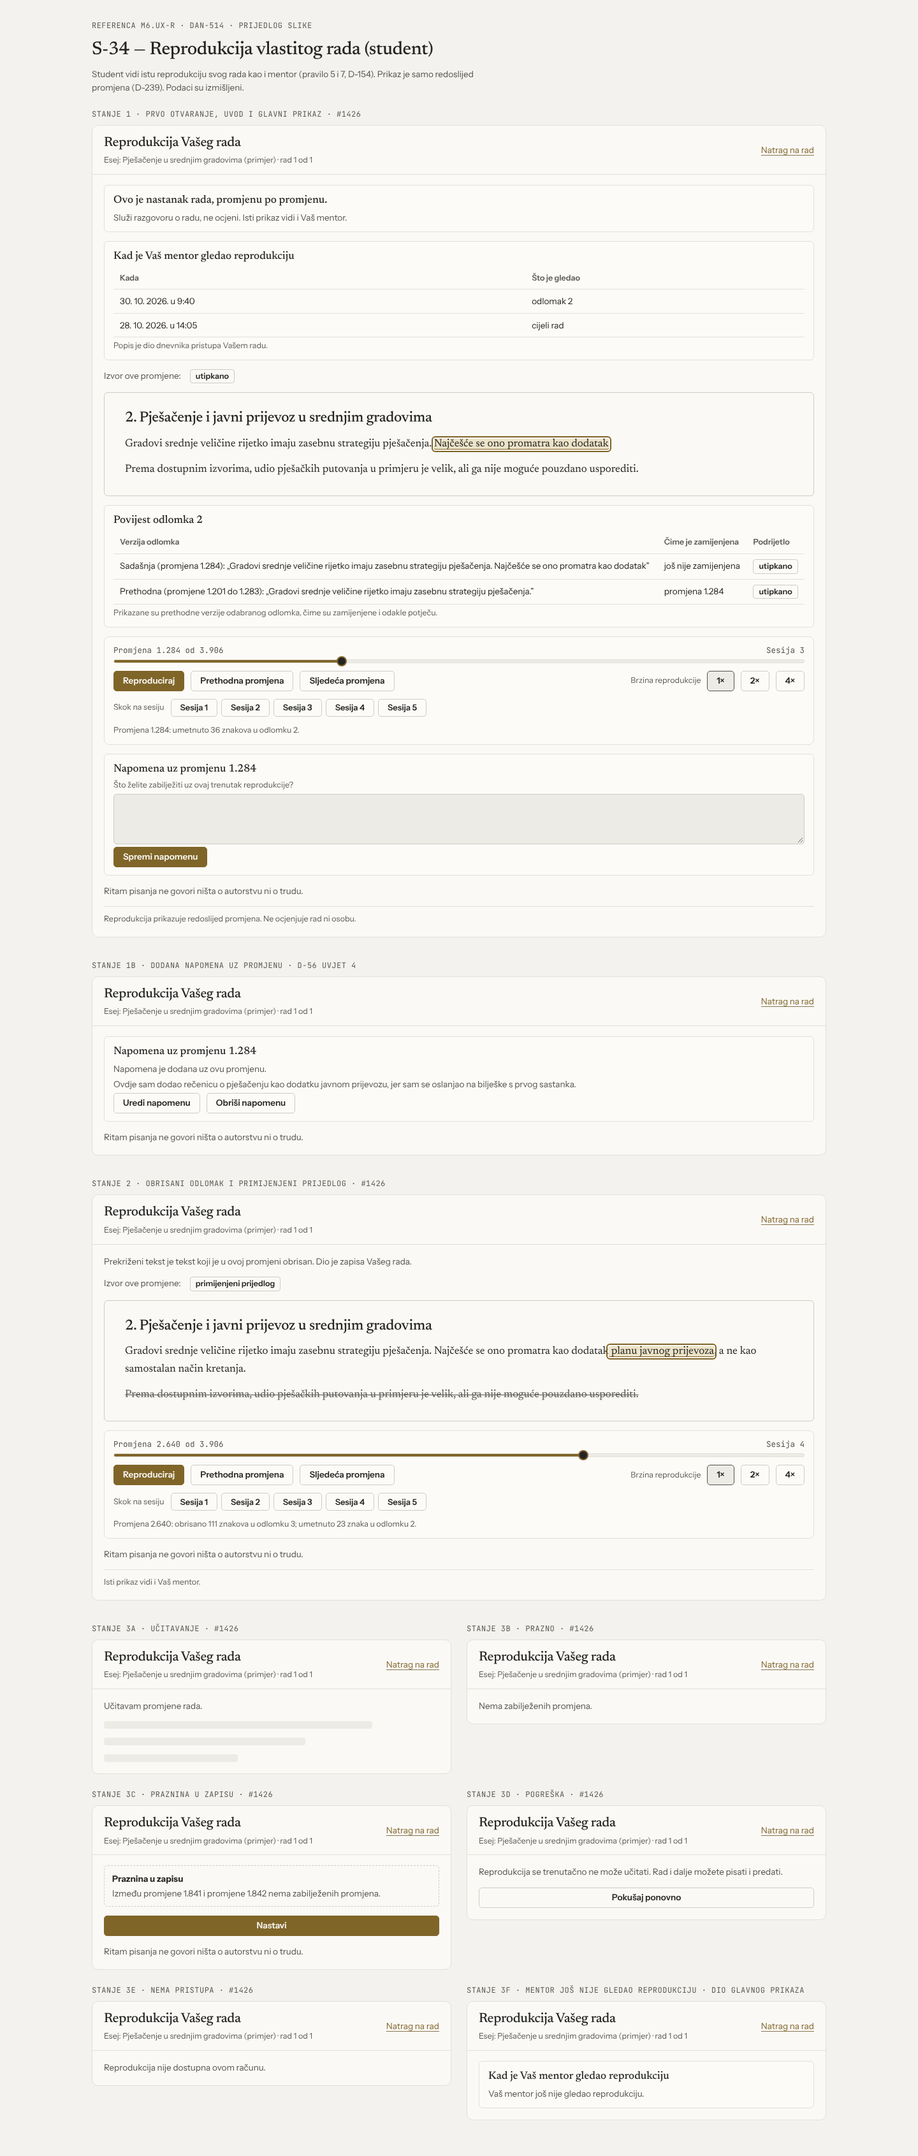
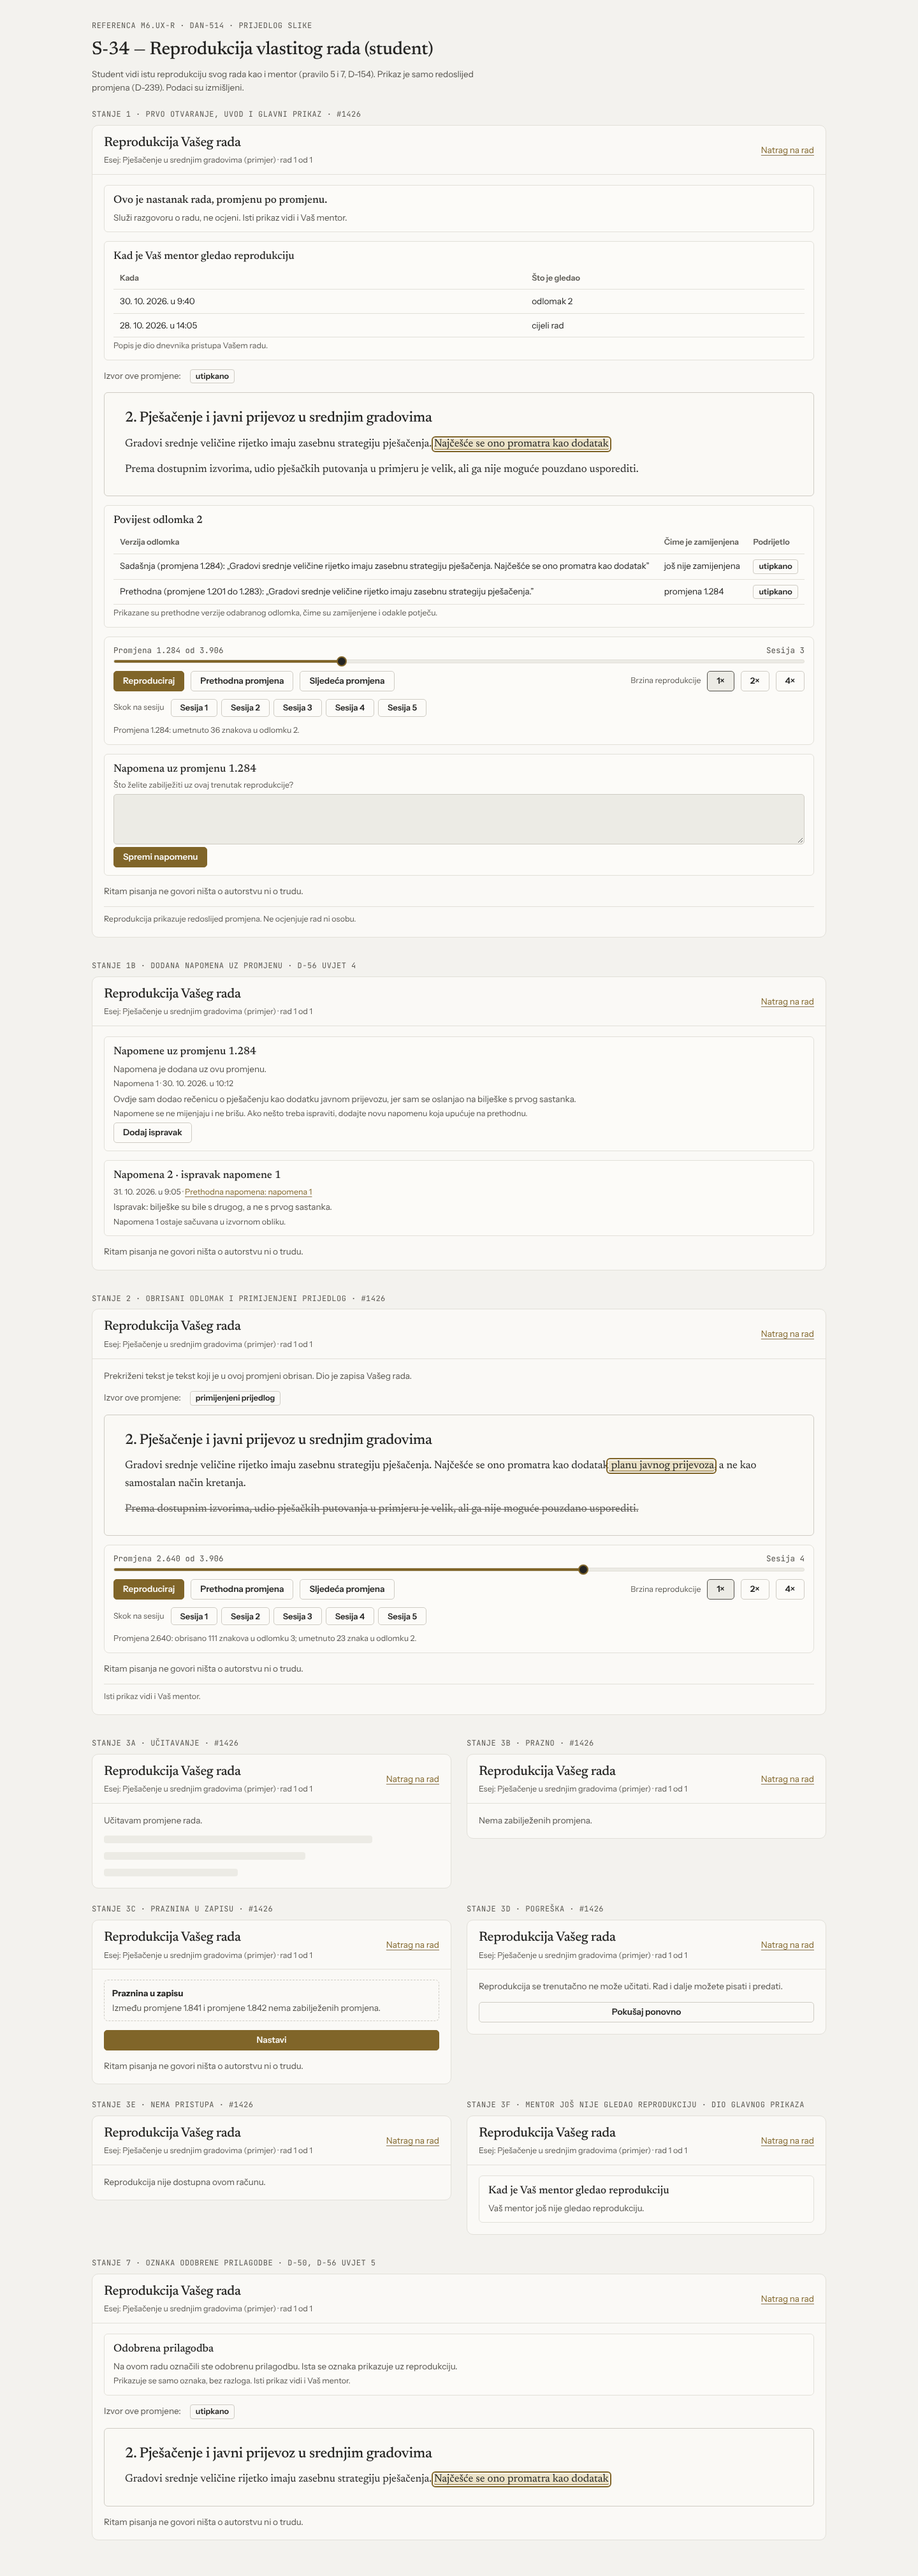
fix: add-only correction notes and approved-accommodation state in M6 replay references (DAN-514)
Claude-Session: https://claude.ai/code/session_01N1HowSSCad88AwdKtTns4v

diff --git a/docs/design/ductura/m6-reference/s34-reprodukcija-student.html b/docs/design/ductura/m6-reference/s34-reprodukcija-student.html
@@ -73,10 +73,18 @@
       <div class="frame-top"><div><h2 id="h-nap2">Reprodukcija Vašeg rada</h2><p class="meta">Esej: Pješačenje u srednjim gradovima (primjer) · rad 1 od 1</p></div><a href="#">Natrag na rad</a></div>
       <div class="frame-body">
         <div class="intro" role="group" aria-labelledby="h-nap3">
-          <p id="h-nap3">Napomena uz promjenu 1.284</p>
+          <p id="h-nap3">Napomene uz promjenu 1.284</p>
           <p role="status">Napomena je dodana uz ovu promjenu.</p>
+          <p class="meta">Napomena 1 · 30. 10. 2026. u 10:12</p>
           <p>Ovdje sam dodao rečenicu o pješačenju kao dodatku javnom prijevozu, jer sam se oslanjao na bilješke s prvog sastanka.</p>
-          <div class="ctl-row"><button class="btn secondary" type="button">Uredi napomenu</button><button class="btn secondary" type="button">Obriši napomenu</button></div>
+          <p class="meta">Napomene se ne mijenjaju i ne brišu. Ako nešto treba ispraviti, dodajte novu napomenu koja upućuje na prethodnu.</p>
+          <div class="ctl-row"><button class="btn secondary" type="button">Dodaj ispravak</button></div>
+        </div>
+        <div class="intro" role="group" aria-labelledby="h-nap4">
+          <p id="h-nap4">Napomena 2 · ispravak napomene 1</p>
+          <p class="meta">31. 10. 2026. u 9:05 · <a href="#h-nap3">Prethodna napomena: napomena 1</a></p>
+          <p>Ispravak: bilješke su bile s drugog, a ne s prvog sastanka.</p>
+          <p class="meta">Napomena 1 ostaje sačuvana u izvornom obliku.</p>
         </div>
         <p class="note">Ritam pisanja ne govori ništa o autorstvu ni o trudu.</p>
       </div>
@@ -174,6 +182,25 @@
     </div>
   </section>
   </div>
+  <section aria-labelledby="h-prl">
+    <div class="ref-tag">Stanje 7 · oznaka odobrene prilagodbe · D-50, D-56 uvjet 5</div>
+    <div class="frame">
+      <div class="frame-top"><div><h2 id="h-prl">Reprodukcija Vašeg rada</h2><p class="meta">Esej: Pješačenje u srednjim gradovima (primjer) · rad 1 od 1</p></div><a href="#">Natrag na rad</a></div>
+      <div class="frame-body">
+        <div class="intro" role="group" aria-labelledby="h-prl2">
+          <p id="h-prl2">Odobrena prilagodba</p>
+          <p role="status">Na ovom radu označili ste odobrenu prilagodbu. Ista se oznaka prikazuje uz reprodukciju.</p>
+          <p class="meta">Prikazuje se samo oznaka, bez razloga. Isti prikaz vidi i Vaš mentor.</p>
+        </div>
+        <div class="src-line"><span>Izvor ove promjene:</span><span class="src-tag">utipkano</span></div>
+        <div class="sheet" aria-label="Tekst rada u trenutku odabrane promjene">
+          <h3>2. Pješačenje i javni prijevoz u srednjim gradovima</h3>
+          <p>Gradovi srednje veličine rijetko imaju zasebnu strategiju pješačenja. <span class="ins cur">Najčešće se ono promatra kao dodatak</span></p>
+        </div>
+        <p class="note">Ritam pisanja ne govori ništa o autorstvu ni o trudu.</p>
+      </div>
+    </div>
+  </section>
 </main>
 </body>
 </html>

diff --git a/docs/design/ductura/m6-reference/n09-reprodukcija-nastavnik.html b/docs/design/ductura/m6-reference/n09-reprodukcija-nastavnik.html
@@ -232,6 +232,25 @@
       </div>
     </div>
   </section>
+  <section aria-labelledby="h-prl">
+    <div class="ref-tag">Stanje 7 · oznaka odobrene prilagodbe · D-50, D-56 uvjet 5</div>
+    <div class="frame">
+      <div class="frame-top"><div><h2 id="h-prl">Reprodukcija rada</h2><p class="meta">Esej: Pješačenje u srednjim gradovima (primjer) · rad 1 od 1</p></div><a href="#">Natrag na rad</a></div>
+      <div class="frame-body">
+        <div class="intro" role="group" aria-labelledby="h-prl2">
+          <p id="h-prl2">Odobrena prilagodba</p>
+          <p role="status">Student je na ovom radu označio odobrenu prilagodbu.</p>
+          <p class="meta">Prikazuje se samo oznaka, bez razloga. Oznaka ne mijenja značenje zapisa.</p>
+        </div>
+        <div class="src-line"><span>Izvor ove promjene:</span><span class="src-tag">utipkano</span></div>
+        <div class="sheet" aria-label="Tekst rada u trenutku odabrane promjene">
+          <h3>2. Pješačenje i javni prijevoz u srednjim gradovima</h3>
+          <p>Gradovi srednje veličine rijetko imaju zasebnu strategiju pješačenja. <span class="ins cur">Najčešće se ono promatra kao dodatak</span></p>
+        </div>
+        <p class="note">Ritam pisanja ne govori ništa o autorstvu ni o trudu.</p>
+      </div>
+    </div>
+  </section>
 </main>
 </body>
 </html>

diff --git a/docs/design/ductura/m6-reference/README.md b/docs/design/ductura/m6-reference/README.md
@@ -28,8 +28,9 @@ Opseg M6.UX-R po odluci orkestratora (#1091): PR 1 M6.2 (S-34, N-09); PR 2 M6.3/
 | veliki rad | prikaz po odlomcima, reprodukcija se ne blokira; tekst odabranog odlomka prikazan je tijekom reprodukcije |
 | smanjeno kretanje | korak po koraku bez animacije; tipkovnica: razmaknica, strelice |
 | mentorovo gledanje (S-34) | u glavnom prikazu blok „Kad je Vaš mentor gledao reprodukciju”: datum i vrijeme svakog otvaranja i opseg (cijeli rad ili odlomak), bez trajanja; popis je dio dnevnika pristupa (`docs/PRODUCT.md` §6, D-56 uvjet 4, pravilo 17, D-150); stanje 3f „Vaš mentor još nije gledao reprodukciju.” |
-| napomena uz promjenu (S-34) | u glavnom prikazu unos „Napomena uz promjenu 1.284” s gumbom „Spremi napomenu”; stanje 1b prikazuje spremljenu napomenu s „Uredi” i „Obriši” (D-56 uvjet 4); napomena je vezana uz broj promjene, bez trajanja |
+| napomena uz promjenu (S-34) | u glavnom prikazu unos „Napomena uz promjenu 1.284” s gumbom „Spremi napomenu”; stanje 1b prikazuje spremljenu napomenu bez uređivanja i brisanja (`docs/PRODUCT.md` §6: napomene se samo dodaju); ispravak je nova napomena s vezom na prethodnu, koja ostaje sačuvana (D-56 uvjet 4); napomena je vezana uz broj promjene, bez trajanja |
 | povijest odlomka (N-09, S-34) | u glavnom prikazu tablica „Povijest odlomka 2”: prethodne verzije odlomka, čime su zamijenjene i podrijetlo (oznaka izvora); ista za obje uloge (D-56 uvjet 6) |
+| oznaka prilagodbe (N-09, S-34) | stanje 7: uz reprodukciju stoji oznaka „Odobrena prilagodba”, samo oznaka bez razloga; student vidi „Na ovom radu označili ste odobrenu prilagodbu.”, mentor i nastavnik „Student je na ovom radu označio odobrenu prilagodbu.” (D-50, D-56 uvjet 5) |
 | stalni tekst | „Ritam pisanja ne govori ništa o autorstvu ni o trudu.” (`docs/PRODUCT.md` §6) u svakom stanju s reprodukcijom, uključujući prazninu u zapisu i veliki rad |
 
 Primjer je dosljedan kroz sva stanja: početci sesija su promjene 1, 640, 1.201, 2.071 i 3.012 (od 3.906); u svakoj su slici označene samo dionice trenutačne promjene (umetnuto s okvirom, obrisano prekriženo), a ranije promjene su običan tekst. Promjene 1.284 (utipkano) i 1.285 (zalijepljeno) su u sesiji 3, a 2.640 (primijenjeni prijedlog) u sesiji 4; skok na sesiju 3 prikazuje promjenu 1.201.
